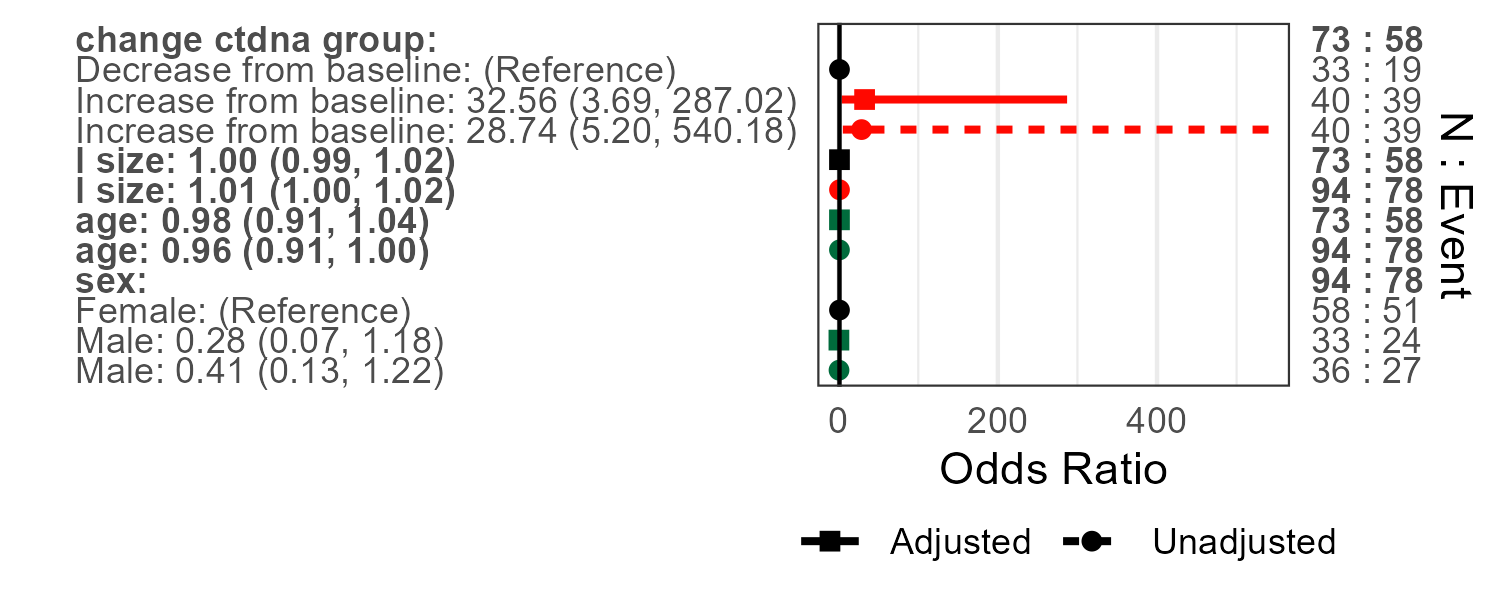
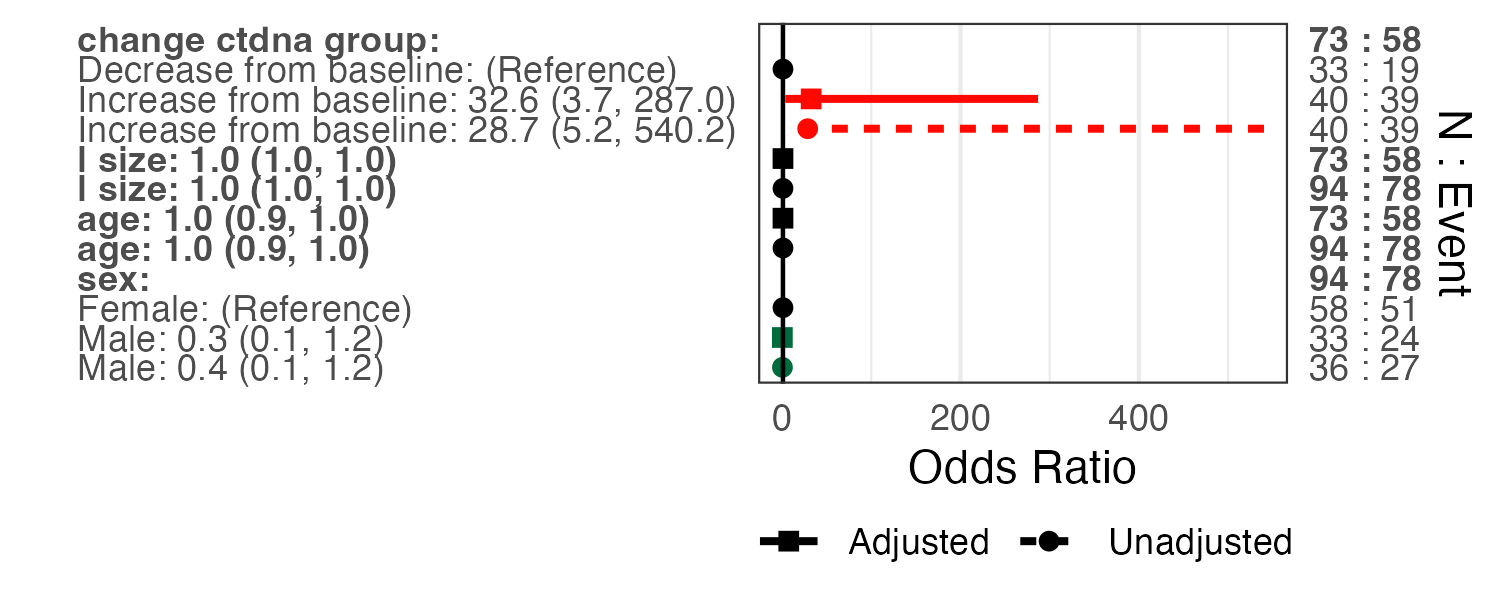
added images folder to vignettes

diff --git a/docs/options.html b/docs/options.html
@@ -230,9 +230,9 @@ code span.wa { color: #60a0b0; font-weight: bold; font-style: italic; } /* Warni
 <li>reportRmd.logScale, default is TRUE. The scale of the forest plots will default to log unless otherwise specified.</li>
 </ul>
 <p>Example:</p>
-<div class="sourceCode" id="cb55"><pre class="sourceCode r"><code class="sourceCode r"><span id="cb55-1"><a href="options.html#cb55-1" tabindex="-1"></a> <span class="fu">rm_uvsum</span>(<span class="at">response =</span> <span class="st">&#39;baseline_ctdna&#39;</span>,</span>
-<span id="cb55-2"><a href="options.html#cb55-2" tabindex="-1"></a> <span class="at">covs=</span><span class="fu">c</span>(<span class="st">&#39;age&#39;</span>,<span class="st">&#39;sex&#39;</span>,<span class="st">&#39;l_size&#39;</span>,<span class="st">&#39;pdl1&#39;</span>,<span class="st">&#39;tmb&#39;</span>),</span>
-<span id="cb55-3"><a href="options.html#cb55-3" tabindex="-1"></a> <span class="at">data=</span>pembrolizumab)</span></code></pre></div>
+<div class="sourceCode" id="cb56"><pre class="sourceCode r"><code class="sourceCode r"><span id="cb56-1"><a href="options.html#cb56-1" tabindex="-1"></a> <span class="fu">rm_uvsum</span>(<span class="at">response =</span> <span class="st">&#39;baseline_ctdna&#39;</span>,</span>
+<span id="cb56-2"><a href="options.html#cb56-2" tabindex="-1"></a> <span class="at">covs=</span><span class="fu">c</span>(<span class="st">&#39;age&#39;</span>,<span class="st">&#39;sex&#39;</span>,<span class="st">&#39;l_size&#39;</span>,<span class="st">&#39;pdl1&#39;</span>,<span class="st">&#39;tmb&#39;</span>),</span>
+<span id="cb56-3"><a href="options.html#cb56-3" tabindex="-1"></a> <span class="at">data=</span>pembrolizumab)</span></code></pre></div>
 <table class="table" style="margin-left: auto; margin-right: auto;">
 <thead>
 <tr>
@@ -347,11 +347,11 @@ Male
 </tr>
 </tbody>
 </table>
-<div class="sourceCode" id="cb56"><pre class="sourceCode r"><code class="sourceCode r"><span id="cb56-1"><a href="options.html#cb56-1" tabindex="-1"></a> <span class="fu">options</span>(<span class="st">&#39;reportRmd.digits&#39;</span><span class="ot">=</span><span class="dv">1</span>) </span>
-<span id="cb56-2"><a href="options.html#cb56-2" tabindex="-1"></a> </span>
-<span id="cb56-3"><a href="options.html#cb56-3" tabindex="-1"></a><span class="fu">rm_uvsum</span>(<span class="at">response =</span> <span class="st">&#39;baseline_ctdna&#39;</span>,</span>
-<span id="cb56-4"><a href="options.html#cb56-4" tabindex="-1"></a> <span class="at">covs=</span><span class="fu">c</span>(<span class="st">&#39;age&#39;</span>,<span class="st">&#39;sex&#39;</span>,<span class="st">&#39;l_size&#39;</span>,<span class="st">&#39;pdl1&#39;</span>,<span class="st">&#39;tmb&#39;</span>),</span>
-<span id="cb56-5"><a href="options.html#cb56-5" tabindex="-1"></a> <span class="at">data=</span>pembrolizumab)</span></code></pre></div>
+<div class="sourceCode" id="cb57"><pre class="sourceCode r"><code class="sourceCode r"><span id="cb57-1"><a href="options.html#cb57-1" tabindex="-1"></a> <span class="fu">options</span>(<span class="st">&#39;reportRmd.digits&#39;</span><span class="ot">=</span><span class="dv">1</span>) </span>
+<span id="cb57-2"><a href="options.html#cb57-2" tabindex="-1"></a> </span>
+<span id="cb57-3"><a href="options.html#cb57-3" tabindex="-1"></a><span class="fu">rm_uvsum</span>(<span class="at">response =</span> <span class="st">&#39;baseline_ctdna&#39;</span>,</span>
+<span id="cb57-4"><a href="options.html#cb57-4" tabindex="-1"></a> <span class="at">covs=</span><span class="fu">c</span>(<span class="st">&#39;age&#39;</span>,<span class="st">&#39;sex&#39;</span>,<span class="st">&#39;l_size&#39;</span>,<span class="st">&#39;pdl1&#39;</span>,<span class="st">&#39;tmb&#39;</span>),</span>
+<span id="cb57-5"><a href="options.html#cb57-5" tabindex="-1"></a> <span class="at">data=</span>pembrolizumab)</span></code></pre></div>
 <table class="table" style="margin-left: auto; margin-right: auto;">
 <thead>
 <tr>

diff --git a/docs/combining-univariable-and-multivariable-models-into-a-single-plot.html b/docs/combining-univariable-and-multivariable-models-into-a-single-plot.html
@@ -229,7 +229,17 @@ code span.wa { color: #60a0b0; font-weight: bold; font-style: italic; } /* Warni
 <span id="cb54-4"><a href="combining-univariable-and-multivariable-models-into-a-single-plot.html#cb54-4" tabindex="-1"></a> <span class="at">data=</span>pembrolizumab,<span class="at">family =</span> <span class="st">&#39;binomial&#39;</span>))</span>
 <span id="cb54-5"><a href="combining-univariable-and-multivariable-models-into-a-single-plot.html#cb54-5" tabindex="-1"></a> <span class="fu">forestplotUVMV</span>(UVp, MVp)</span></code></pre></div>
 <p><img src="images/forestuvmv.png" /></p>
-<div style="page-break-after: always;"></div>
+<p>This can also be done with linear scale odds ratios. Number of subjects and/or number of events can also be turned off, as well as different colours used.</p>
+<div class="sourceCode" id="cb55"><pre class="sourceCode r"><code class="sourceCode r"><span id="cb55-1"><a href="combining-univariable-and-multivariable-models-into-a-single-plot.html#cb55-1" tabindex="-1"></a>uvFP <span class="ot">&lt;-</span> <span class="fu">forestplotUV</span>(<span class="at">data=</span>pembrolizumab, <span class="at">response=</span><span class="st">&#39;orr&#39;</span>,</span>
+<span id="cb55-2"><a href="combining-univariable-and-multivariable-models-into-a-single-plot.html#cb55-2" tabindex="-1"></a><span class="at">covs=</span><span class="fu">c</span>(<span class="st">&#39;age&#39;</span>,<span class="st">&#39;sex&#39;</span>,<span class="st">&#39;pdl1&#39;</span>,<span class="st">&#39;change_ctdna_group&#39;</span>))</span>
+<span id="cb55-3"><a href="combining-univariable-and-multivariable-models-into-a-single-plot.html#cb55-3" tabindex="-1"></a></span>
+<span id="cb55-4"><a href="combining-univariable-and-multivariable-models-into-a-single-plot.html#cb55-4" tabindex="-1"></a>glm_fit <span class="ot">&lt;-</span> <span class="fu">glm</span>(orr<span class="sc">~</span>change_ctdna_group<span class="sc">+</span>pdl1,</span>
+<span id="cb55-5"><a href="combining-univariable-and-multivariable-models-into-a-single-plot.html#cb55-5" tabindex="-1"></a>               <span class="at">family=</span><span class="st">&#39;binomial&#39;</span>,</span>
+<span id="cb55-6"><a href="combining-univariable-and-multivariable-models-into-a-single-plot.html#cb55-6" tabindex="-1"></a>               <span class="at">data =</span> pembrolizumab)</span>
+<span id="cb55-7"><a href="combining-univariable-and-multivariable-models-into-a-single-plot.html#cb55-7" tabindex="-1"></a>mvFP <span class="ot">&lt;-</span> <span class="fu">forestplotMV</span>(glm_fit)</span>
+<span id="cb55-8"><a href="combining-univariable-and-multivariable-models-into-a-single-plot.html#cb55-8" tabindex="-1"></a></span>
+<span id="cb55-9"><a href="combining-univariable-and-multivariable-models-into-a-single-plot.html#cb55-9" tabindex="-1"></a><span class="fu">forestplotUVMV</span>(uvFP,mvFP,<span class="at">showN=</span>F,<span class="at">showEvent=</span>F,<span class="at">colours=</span><span class="fu">c</span>(<span class="st">&quot;orange&quot;</span>,<span class="st">&quot;black&quot;</span>,<span class="st">&quot;blue&quot;</span>),<span class="at">logScale=</span>F)</span></code></pre></div>
+<p><img src="images/forestuvmvlin.png" /></p>
 <div style="page-break-after: always;"></div>
 </div>
 <!-- </div> -->

diff --git a/docs/gee-models.html b/docs/gee-models.html
@@ -224,12 +224,13 @@ code span.wa { color: #60a0b0; font-weight: bold; font-style: italic; } /* Warni
 <div id="gee-models" class="section level2 hasAnchor" number="4.6">
 <h2><span class="header-section-number">4.6</span> GEE Models<a href="gee-models.html#gee-models" class="anchor-section" aria-label="Anchor link to header"></a></h2>
 <p>Correlated observations can be handled using GEE</p>
-<div class="sourceCode" id="cb27"><pre class="sourceCode r"><code class="sourceCode r"><span id="cb27-1"><a href="gee-models.html#cb27-1" tabindex="-1"></a> <span class="fu">rm_uvsum</span>(<span class="at">response =</span> <span class="st">&#39;size_change&#39;</span>,</span>
-<span id="cb27-2"><a href="gee-models.html#cb27-2" tabindex="-1"></a> <span class="at">covs=</span><span class="fu">c</span>(<span class="st">&#39;time&#39;</span>,<span class="st">&#39;ctdna_status&#39;</span>),</span>
-<span id="cb27-3"><a href="gee-models.html#cb27-3" tabindex="-1"></a> <span class="at">gee=</span><span class="cn">TRUE</span>,</span>
-<span id="cb27-4"><a href="gee-models.html#cb27-4" tabindex="-1"></a> <span class="at">id=</span><span class="st">&#39;id&#39;</span>, <span class="at">corstr=</span><span class="st">&quot;exchangeable&quot;</span>,</span>
-<span id="cb27-5"><a href="gee-models.html#cb27-5" tabindex="-1"></a> <span class="at">family=</span><span class="fu">gaussian</span>(<span class="st">&quot;identity&quot;</span>),</span>
-<span id="cb27-6"><a href="gee-models.html#cb27-6" tabindex="-1"></a> <span class="at">data=</span>ctDNA,<span class="at">showN=</span><span class="cn">TRUE</span>)</span></code></pre></div>
+<div class="sourceCode" id="cb27"><pre class="sourceCode r"><code class="sourceCode r"><span id="cb27-1"><a href="gee-models.html#cb27-1" tabindex="-1"></a><span class="fu">data</span>(<span class="st">&quot;ctDNA&quot;</span>)</span>
+<span id="cb27-2"><a href="gee-models.html#cb27-2" tabindex="-1"></a> <span class="fu">rm_uvsum</span>(<span class="at">response =</span> <span class="st">&#39;size_change&#39;</span>,</span>
+<span id="cb27-3"><a href="gee-models.html#cb27-3" tabindex="-1"></a> <span class="at">covs=</span><span class="fu">c</span>(<span class="st">&#39;time&#39;</span>,<span class="st">&#39;ctdna_status&#39;</span>),</span>
+<span id="cb27-4"><a href="gee-models.html#cb27-4" tabindex="-1"></a> <span class="at">gee=</span><span class="cn">TRUE</span>,</span>
+<span id="cb27-5"><a href="gee-models.html#cb27-5" tabindex="-1"></a> <span class="at">id=</span><span class="st">&#39;id&#39;</span>, <span class="at">corstr=</span><span class="st">&quot;exchangeable&quot;</span>,</span>
+<span id="cb27-6"><a href="gee-models.html#cb27-6" tabindex="-1"></a> <span class="at">family=</span><span class="fu">gaussian</span>(<span class="st">&quot;identity&quot;</span>),</span>
+<span id="cb27-7"><a href="gee-models.html#cb27-7" tabindex="-1"></a> <span class="at">data=</span>ctDNA,<span class="at">showN=</span><span class="cn">TRUE</span>)</span></code></pre></div>
 <table class="table" style="margin-left: auto; margin-right: auto;">
 <thead>
 <tr>

diff --git a/docs/forest-plots.html b/docs/forest-plots.html
@@ -225,9 +225,8 @@ code span.wa { color: #60a0b0; font-weight: bold; font-style: italic; } /* Warni
 <h2><span class="header-section-number">13.3</span> Forest Plots<a href="forest-plots.html#forest-plots" class="anchor-section" aria-label="Anchor link to header"></a></h2>
 <p>Similar to <code>rm_uvsum</code> and <code>rm_mvsum</code>, forest plots can be created from univariate or multivariable models. forestplot2 is deprecated from version 0.1.0</p>
 <p>This will default to a log scale, but can be set to linear using <code>logScale=FALSE</code></p>
-<div class="sourceCode" id="cb52"><pre class="sourceCode r"><code class="sourceCode r"><span id="cb52-1"><a href="forest-plots.html#cb52-1" tabindex="-1"></a><span class="fu">data</span>(<span class="st">&quot;pembrolizumab&quot;</span>)</span>
-<span id="cb52-2"><a href="forest-plots.html#cb52-2" tabindex="-1"></a><span class="fu">forestplotUV</span>(<span class="at">response=</span><span class="st">&quot;orr&quot;</span>, <span class="at">covs=</span><span class="fu">c</span>(<span class="st">&quot;change_ctdna_group&quot;</span>, <span class="st">&quot;sex&quot;</span>, <span class="st">&quot;age&quot;</span>, <span class="st">&quot;l_size&quot;</span>),</span>
-<span id="cb52-3"><a href="forest-plots.html#cb52-3" tabindex="-1"></a><span class="at">data=</span>pembrolizumab, <span class="at">family=</span><span class="st">&#39;binomial&#39;</span>)</span></code></pre></div>
+<div class="sourceCode" id="cb52"><pre class="sourceCode r"><code class="sourceCode r"><span id="cb52-1"><a href="forest-plots.html#cb52-1" tabindex="-1"></a><span class="fu">forestplotUV</span>(<span class="at">response=</span><span class="st">&quot;orr&quot;</span>, <span class="at">covs=</span><span class="fu">c</span>(<span class="st">&quot;change_ctdna_group&quot;</span>, <span class="st">&quot;sex&quot;</span>, <span class="st">&quot;age&quot;</span>, <span class="st">&quot;l_size&quot;</span>),</span>
+<span id="cb52-2"><a href="forest-plots.html#cb52-2" tabindex="-1"></a><span class="at">data=</span>pembrolizumab, <span class="at">family=</span><span class="st">&#39;binomial&#39;</span>)</span></code></pre></div>
 <p><img src="images/forestuv.png" />
 ### Multivariable Model Forest Plot</p>
 <div class="sourceCode" id="cb53"><pre class="sourceCode r"><code class="sourceCode r"><span id="cb53-1"><a href="forest-plots.html#cb53-1" tabindex="-1"></a>glm_fit <span class="ot">&lt;-</span> <span class="fu">glm</span>(orr<span class="sc">~</span>change_ctdna_group<span class="sc">+</span>pdl1<span class="sc">+</span>age,</span>

diff --git a/docs/worked-example.html b/docs/worked-example.html
@@ -224,9 +224,8 @@ code span.wa { color: #60a0b0; font-weight: bold; font-style: italic; } /* Warni
 <div id="worked-example" class="section level2 hasAnchor" number="12.1">
 <h2><span class="header-section-number">12.1</span> Worked Example<a href="worked-example.html#worked-example" class="anchor-section" aria-label="Anchor link to header"></a></h2>
 <p>Get some descriptive stats for the ctDNA data that comes with the package. The <code>nicenames</code> argument is TRUE by default so underscores are replaced by spaces</p>
-<div class="sourceCode" id="cb43"><pre class="sourceCode r"><code class="sourceCode r"><span id="cb43-1"><a href="worked-example.html#cb43-1" tabindex="-1"></a><span class="fu">data</span>(ctDNA)</span>
-<span id="cb43-2"><a href="worked-example.html#cb43-2" tabindex="-1"></a><span class="fu">rm_covsum</span>(<span class="at">data=</span>ctDNA,</span>
-<span id="cb43-3"><a href="worked-example.html#cb43-3" tabindex="-1"></a>          <span class="at">covs=</span><span class="fu">c</span>(<span class="st">&#39;cohort&#39;</span>,<span class="st">&#39;ctdna_status&#39;</span>,<span class="st">&#39;size_change&#39;</span>))</span></code></pre></div>
+<div class="sourceCode" id="cb43"><pre class="sourceCode r"><code class="sourceCode r"><span id="cb43-1"><a href="worked-example.html#cb43-1" tabindex="-1"></a><span class="fu">rm_covsum</span>(<span class="at">data=</span>ctDNA,</span>
+<span id="cb43-2"><a href="worked-example.html#cb43-2" tabindex="-1"></a>          <span class="at">covs=</span><span class="fu">c</span>(<span class="st">&#39;cohort&#39;</span>,<span class="st">&#39;ctdna_status&#39;</span>,<span class="st">&#39;size_change&#39;</span>))</span></code></pre></div>
 <table class="table" style="margin-left: auto; margin-right: auto;">
 <thead>
 <tr>

diff --git a/docs/summary-statistics.html b/docs/summary-statistics.html
@@ -224,8 +224,9 @@ code span.wa { color: #60a0b0; font-weight: bold; font-style: italic; } /* Warni
 <div id="summary-statistics" class="section level1 hasAnchor" number="2">
 <h1><span class="header-section-number">2</span> Summary statistics<a href="summary-statistics.html#summary-statistics" class="anchor-section" aria-label="Anchor link to header"></a></h1>
 <p>Basic summary statistics</p>
-<div class="sourceCode" id="cb1"><pre class="sourceCode r"><code class="sourceCode r"><span id="cb1-1"><a href="summary-statistics.html#cb1-1" tabindex="-1"></a><span class="fu">rm_covsum</span>(<span class="at">data=</span>pembrolizumab, </span>
-<span id="cb1-2"><a href="summary-statistics.html#cb1-2" tabindex="-1"></a><span class="at">covs=</span><span class="fu">c</span>(<span class="st">&#39;age&#39;</span>,<span class="st">&#39;sex&#39;</span>))</span></code></pre></div>
+<div class="sourceCode" id="cb1"><pre class="sourceCode r"><code class="sourceCode r"><span id="cb1-1"><a href="summary-statistics.html#cb1-1" tabindex="-1"></a><span class="fu">data</span>(<span class="st">&quot;pembrolizumab&quot;</span>)</span>
+<span id="cb1-2"><a href="summary-statistics.html#cb1-2" tabindex="-1"></a><span class="fu">rm_covsum</span>(<span class="at">data=</span>pembrolizumab, </span>
+<span id="cb1-3"><a href="summary-statistics.html#cb1-3" tabindex="-1"></a><span class="at">covs=</span><span class="fu">c</span>(<span class="st">&#39;age&#39;</span>,<span class="st">&#39;sex&#39;</span>))</span></code></pre></div>
 <table class="table" style="margin-left: auto; margin-right: auto;">
 <thead>
 <tr>

diff --git a/docs/plotting-bivariate-relationships.html b/docs/plotting-bivariate-relationships.html
@@ -229,7 +229,7 @@ code span.wa { color: #60a0b0; font-weight: bold; font-style: italic; } /* Warni
 <p><img src="images/plotuv.png" /></p>
 <p>The plotuv function can also be used without a response variable to display summary of variables</p>
 <div class="sourceCode" id="cb50"><pre class="sourceCode r"><code class="sourceCode r"><span id="cb50-1"><a href="plotting-bivariate-relationships.html#cb50-1" tabindex="-1"></a><span class="fu">plotuv</span>(<span class="at">data =</span> pembrolizumab, <span class="at">covs=</span><span class="fu">c</span>(<span class="st">&#39;age&#39;</span>,<span class="st">&#39;cohort&#39;</span>,<span class="st">&#39;pdl1&#39;</span>,<span class="st">&#39;change_ctdna_group&#39;</span>), <span class="at">showN =</span> T)</span></code></pre></div>
-<p><img src="_main_files/figure-html/unnamed-chunk-48-1.png" width="672" /></p>
+<p><img src="_main_files/figure-html/unnamed-chunk-528-1.png" width="672" /></p>
 <div style="page-break-after: always;"></div>
 </div>
             </section>

diff --git a/docs/poisson-regression.html b/docs/poisson-regression.html
@@ -252,7 +252,7 @@ N
 1.0 (1.0, 1.0)
 </td>
 <td style="text-align:right;">
-0.98
+1.00
 </td>
 <td style="text-align:right;">
 94
@@ -288,10 +288,10 @@ Reference
 B
 </td>
 <td style="text-align:right;">
-1.5 (1.1, 2.2)
+1.5 (1.0, 2.3)
 </td>
 <td style="text-align:right;">
-<span style="font-weight: bold;">0.027</span>
+0.055
 </td>
 <td style="text-align:right;">
 18
@@ -302,10 +302,10 @@ B
 C
 </td>
 <td style="text-align:right;">
-1.2 (0.8, 1.8)
+1.0 (0.6, 1.5)
 </td>
 <td style="text-align:right;">
-0.31
+0.95
 </td>
 <td style="text-align:right;">
 18
@@ -316,10 +316,10 @@ C
 D
 </td>
 <td style="text-align:right;">
-1.0 (0.6, 1.5)
+1.4 (0.9, 2.3)
 </td>
 <td style="text-align:right;">
-0.85
+0.11
 </td>
 <td style="text-align:right;">
 12
@@ -330,10 +330,10 @@ D
 E
 </td>
 <td style="text-align:right;">
-1.1 (0.7, 1.5)
+1.2 (0.8, 1.8)
 </td>
 <td style="text-align:right;">
-0.77
+0.33
 </td>
 <td style="text-align:right;">
 30

diff --git a/docs/using-mean-summary-statistic-instead-of-median.html b/docs/using-mean-summary-statistic-instead-of-median.html
@@ -275,7 +275,7 @@ age Median (Min, Max)
 0.30
 </td>
 <td style="text-align:right;">
-0.11 (-0.08, 0.21)
+0.11 (-0.10, 0.21)
 </td>
 <td style="text-align:right;">
 0
@@ -304,7 +304,7 @@ pdl1 Mean (sd)
 0.63
 </td>
 <td style="text-align:right;">
-0.10 (-0.38, 0.20)
+0.10 (-0.35, 0.20)
 </td>
 <td style="text-align:right;">
 1
@@ -333,7 +333,7 @@ change ctdna group n (%)
 0.84
 </td>
 <td style="text-align:right;">
-0.02 (-0.20, 0.05)
+0.02 (-0.18, 0.05)
 </td>
 <td style="text-align:right;">
 21

diff --git a/docs/custom-digits-argument.html b/docs/custom-digits-argument.html
@@ -275,7 +275,7 @@ age Median (Min, Max)
 0.30
 </td>
 <td style="text-align:right;">
-0.11 (-0.09, 0.21)
+0.11 (-0.10, 0.21)
 </td>
 <td style="text-align:right;">
 0
@@ -304,7 +304,7 @@ pdl1 Mean (sd)
 0.63
 </td>
 <td style="text-align:right;">
-0.10 (-0.40, 0.20)
+0.10 (-0.39, 0.20)
 </td>
 <td style="text-align:right;">
 1
@@ -457,7 +457,7 @@ l size Median (Min, Max)
 0.066
 </td>
 <td style="text-align:right;">
-0.19 (0.00, 0.36)
+0.19 (0.00, 0.37)
 </td>
 <td style="text-align:right;">
 0

diff --git a/docs/including-effect-sizes-1.html b/docs/including-effect-sizes-1.html
@@ -275,7 +275,7 @@ age Median (Min, Max)
 0.30
 </td>
 <td style="text-align:right;">
-0.11 (-0.09, 0.21)
+0.11 (-0.10, 0.21)
 </td>
 <td style="text-align:right;">
 0
@@ -304,7 +304,7 @@ pdl1 Median (Min, Max)
 0.76
 </td>
 <td style="text-align:right;">
-0.03 (-0.16, 0.05)
+0.03 (-0.17, 0.06)
 </td>
 <td style="text-align:right;">
 1

diff --git a/docs/row-vs-column-summaries-1.html b/docs/row-vs-column-summaries-1.html
@@ -331,7 +331,7 @@ orr n (%)
 &lt;0.001
 </td>
 <td style="text-align:right;">
-0.55 (0.75, 1.03)
+0.55 (0.77, 1.03)
 </td>
 <td style="text-align:right;">
 Fisher Exact
